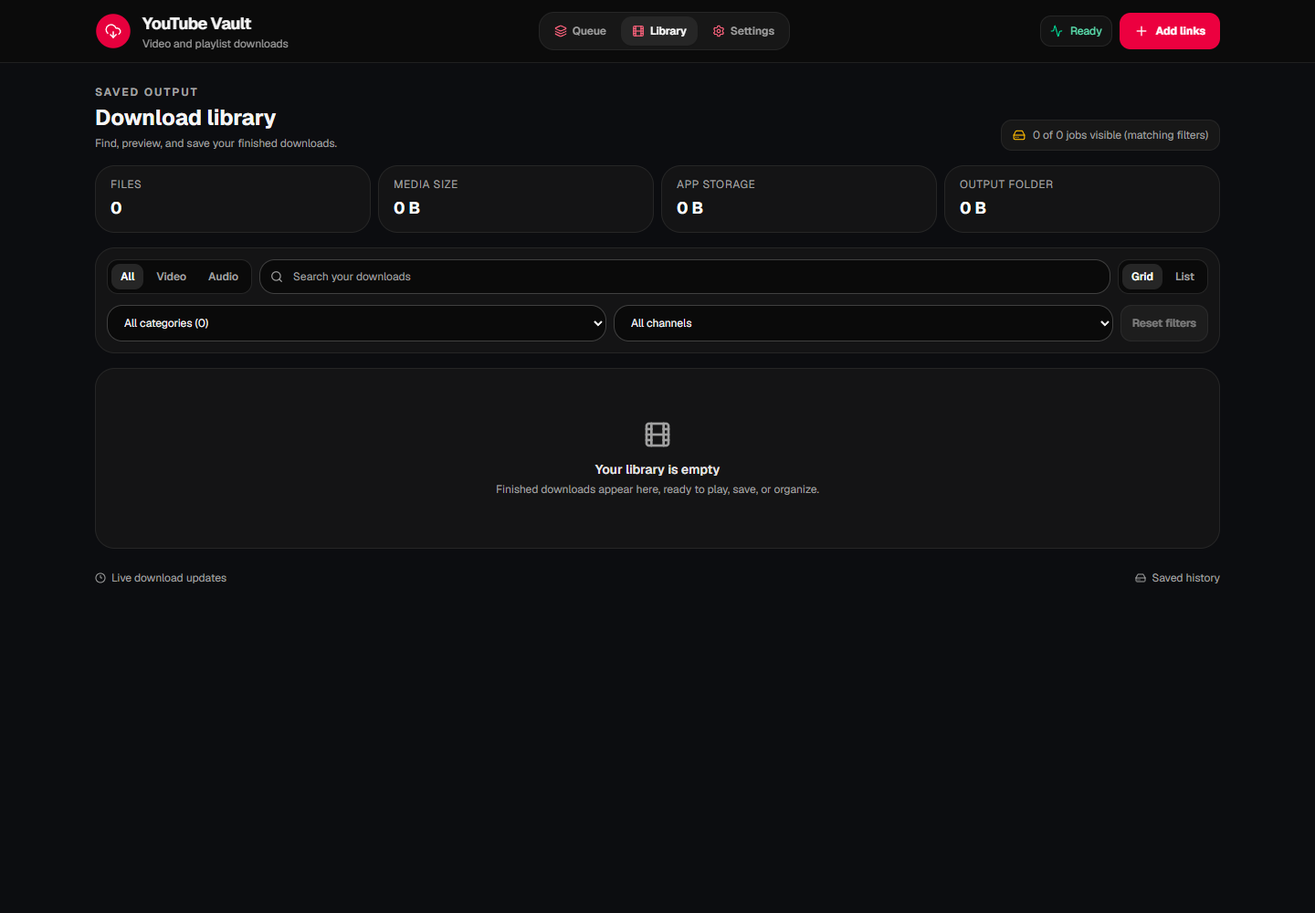
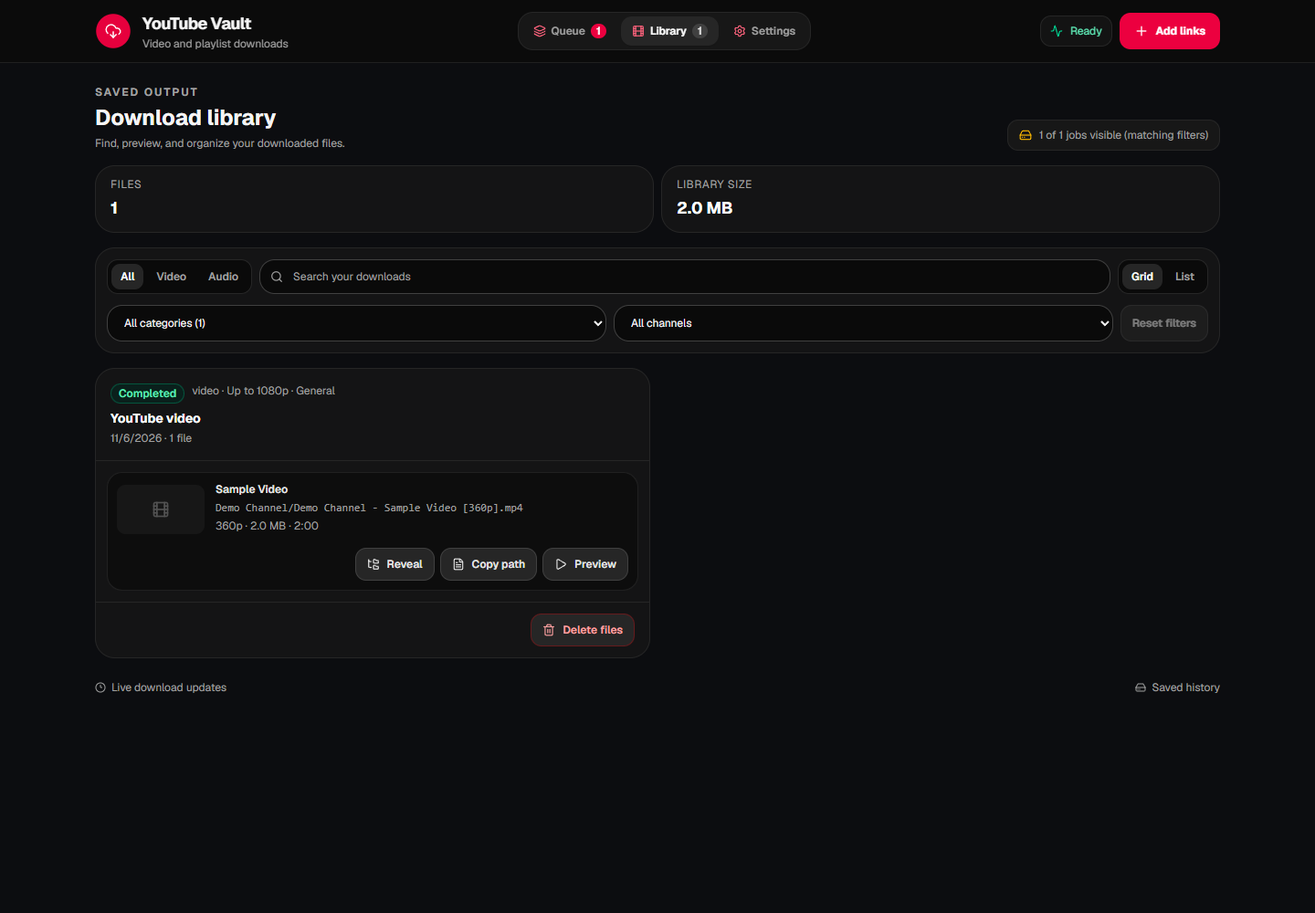
docs: update single-folder Library guides and native screenshots

diff --git a/src/server/README.md b/src/server/README.md
@@ -54,6 +54,13 @@ Browser playback requests use YouTube's representation quality names, including 
 
 Transient browser capture failures receive one retry using a fresh tab, including failures after media has started arriving. If autoplay switches to another video before capture finishes, the service restores the requested video at the verified saved prefix, retaining the selected quality. Restoration never runs during an ad and allows at most three attempts without prefix progress, with 15 seconds between attempts. Each attempt and the overall item remain deadline-bounded. If adaptive acquisition still fails, the optional 360p progressive MP4 recovery is used only when explicitly enabled for that job, and its use is disclosed in the job note. Some videos cannot expose an eligible compatible track; their item fails explicitly.
 
+Browser pair capture shares the bounded reservation headroom with audio as well
+as video. If browser capture exceeds that reservation, partial capture output is
+discarded and verified native ranges can retry the same selected tracks. This
+does not increase the configured job limit or implicitly lower the quality.
+A reservation error is distinct from the aggregate job-limit error; diagnostic
+logs identify browser-pair, browser-track, and mux-output failures.
+
 ## Live resolution regression test
 
 The opt-in live matrix downloads each supplied authorized video at every supported quality ceiling (`480`, `720`, `1080`, `1440`, `2160`, and `best`). Choose samples with different durations; additional comma-separated sample URLs are supported. Each ceiling selects the best eligible source at or below that height; a source with a lower maximum resolution is still tested. A download that falls back below its selected source resolution fails the test.
@@ -65,7 +72,7 @@ $env:YTDL_LIVE_MATRIX_URLS = 'https://www.youtube.com/watch?v=HOfdboHvshg,https:
 go test -run '^TestLiveResolutionMatrix$' -count=1 -v -timeout 6h
 ~~~
 
-These Blender samples cover a 52-second trailer, approximately 10-minute film, and approximately 15-minute film. The test uses temporary managed storage, deletes each successful download after validation, and leaves the user's output directory untouched. It checks finalized sizes, reads actual container dimensions, requires audio and video tracks, and reads both tracks through their expected duration (with three seconds of endpoint tolerance). It does not decode every frame. Chrome-compatible browser installation and unrestricted YouTube access are required; upstream availability and delivery restrictions can fail a run independently of local regressions.
+These Blender samples cover a 52-second trailer, approximately 10-minute film, and approximately 15-minute film. The test uses temporary isolated storage, deletes each successful download after validation, and leaves the user's output directory untouched. It checks finalized sizes, reads actual container dimensions, requires audio and video tracks, and reads both tracks through their expected duration (with three seconds of endpoint tolerance). It does not decode every frame. Chrome-compatible browser installation and unrestricted YouTube access are required; upstream availability and delivery restrictions can fail a run independently of local regressions.
 
 The matrix logs elapsed job time, finalized bytes, and output MiB/s for each sample and ceiling. Job time includes metadata, acquisition, muxing, and finalization; container validation runs afterward. Set `YTDL_TRACE_PERFORMANCE=1` for browser capture phase timings. Compare identical samples and strategies before and after a change; upstream delivery and browser startup can vary between runs. Sample subtests run concurrently, so their rates also reflect shared network/CPU use. Use one URL at a time to isolate single-job performance.
 
@@ -103,6 +110,30 @@ The MP3 encoder emits constant-bitrate audio with native ID3v2.3 metadata writte
 
 Ticket links last five minutes. Individual-file transfers support one byte range; ZIP downloads stream finalized files without building a duplicate archive in memory. Completed Library records remain by default. With an explicit `RETENTION` duration, a record and its private managed files can expire only when all finalized media and caption sidecars still have verified published copies; active transfers and unexpired tickets also hold the record. Failed or cancelled jobs without finalized files are cleaned after 24 hours by default (or after the explicit duration).
 
+## Library storage and upgrades
+
+`downloadLocation` is the Library's single finalized-media location. New jobs
+stage transfers, muxing, and artwork under `<downloadLocation>/.yt-dl-go/<jobID>`
+and finalize media into the selected naming/subfolder layout. `DATA_DIR` retains
+SQLite preferences, history, and resumable state; it is not a second media Library.
+Each job records its download folder, so later setting changes do not move
+existing files or redirect their playback/deletion paths.
+
+Before accepting requests, startup reconciles tracked Library items with disk.
+A missing media file removes its Library item and records an exclusion so later
+history saves cannot restore it. Surviving playlist files remain. A missing
+caption clears that sidecar; imported metadata-only records remain. An
+unavailable Library root, permission error, changed-size file, or invalid path
+preserves metadata rather than being treated as a deletion. Playback separately
+validates the tracked regular file and expected size.
+
+On upgrade, a valid folder copy takes precedence over an old private duplicate.
+Legacy app-only media is copied into its recorded download folder; obsolete
+private media is removed only after the new paths have been saved. Failed saves
+roll back new migration outputs. Missing/invalid optional captions do not block
+startup. Back up both `DATA_DIR` and the download folder with the app closed
+before upgrading or rolling back.
+
 ## API
 
 Control-plane API responses and errors return JSON. `GET /api/downloads/{ticket}` instead streams a file or ZIP. When `API_TOKEN` is configured, send `Authorization: Bearer TOKEN` except for `GET /api/health`, approved CORS preflight requests, and ticket download links. API JSON bodies must be one object no larger than 4096 bytes and cannot include unknown fields. The browser/server UI has no token-entry flow; if `API_TOKEN` is configured, use a token-capable external client. Desktop instead receives a private per-launch bearer through its Wails binding.
@@ -117,7 +148,7 @@ Control-plane API responses and errors return JSON. `GET /api/downloads/{ticket}
 | `PUT /api/settings` | Saves validated preferences to SQLite |
 | `POST /api/folders/select` | Opens the local OS folder picker and returns the selected absolute folder; `{}` body |
 | `POST /api/jobs` | Creates a download job; returns `202` and the job |
-| `POST /api/jobs/bulk` | Applies pause/resume/cancel/delete to 1–100 unique `jobIds`; returns `jobs`, `deletedIds`, and per-ID `failures`. Successful IDs are committed independently; published output is preserved on delete. |
+| `POST /api/jobs/bulk` | Applies pause/resume/cancel/delete to 1–100 unique `jobIds`; returns `jobs`, `deletedIds`, and per-ID `failures`. Successful IDs are committed independently; Library media is preserved on delete. |
 | `POST /api/jobs/{id}/retry-failed` | Re-queues eligible failed/cancelled playlist items together while preserving successful files |
 | `PUT /api/jobs/{id}/configuration` | Edits quality, video strategy, audio format/bitrate, and category for queued or paused jobs; finalized media is preserved |
 | `GET /api/jobs` | Lists jobs, newest first |
@@ -135,13 +166,11 @@ Control-plane API responses and errors return JSON. `GET /api/downloads/{ticket}
 | `PUT /api/queue/order` | Reorders all currently queued jobs atomically using `{"jobIds":[...]}` |
 | `POST /api/jobs/{id}/next` | Moves one queued job to the front of the queued-job order |
 | `PUT /api/jobs/{id}/items` | Reorders a queued playlist using original `playlistIndexes` |
-| `DELETE /api/jobs/{id}` | Removes a stopped job from the Library and deletes app-managed copies while preserving published output |
-| `DELETE /api/jobs/{id}/history` | Removes a stopped job from Queue history while preserving its Library items and both media copies |
-| `DELETE /api/jobs/{id}/library-items/{fileId}` | Removes exactly one finalized file from the Library and its app-managed copies while preserving job history, siblings, and published output |
-| `DELETE /api/jobs/{id}/managed` | Deletes only app-managed media copies and keeps Library history plus published output |
-| `DELETE /api/jobs/{id}/published` | Deletes only tracked copies in the configured output directory and keeps managed Library media |
-| `DELETE /api/jobs/{id}/all` | Explicitly deletes managed media, published output, and Library history |
-| `POST /api/jobs/{id}/filesystem` | Performs a path-validated `copy-path`, `reveal`, or `open-folder` action for one tracked published file |
+| `DELETE /api/jobs/{id}` | Removes a stopped job and its Library metadata/working files while preserving media in the download folder |
+| `DELETE /api/jobs/{id}/history` | Removes stopped Queue history while preserving Library items and disk files |
+| `DELETE /api/jobs/{id}/library-items/{fileId}` | Removes one Library item and its working files/artwork; preserves job history, sibling items, and media in the download folder |
+| `DELETE /api/jobs/{id}/all` | Deletes tracked Library media, caption sidecars, working files, and history; backs the Library Delete files action |
+| `POST /api/jobs/{id}/filesystem` | Performs a path-validated `copy-path`, `reveal`, or `open-folder` action for one tracked Library file |
 | `POST /api/jobs/{id}/ticket` | Creates a five-minute link for a job ZIP or one file |
 | `GET /api/jobs/{id}/thumbnail?fileId=FILE_ID` | Serves captured local thumbnail artwork for one finalized file through authenticated API access |
 | `GET /api/downloads/{ticket}` | Streams the ticket's archive or file |
@@ -166,15 +195,17 @@ To request a caption sidecar, include a language code returned by inspection, fo
 
 Valid qualities are `best`, `2160`, `1440`, `1080`, `720`, and `480`. `mediaType` is optional and defaults to `video`; set it to `audio` for audio-only output. For audio jobs, `audioFormat` defaults to `mp3` and accepts `mp3` or `m4a`. MP3 `audioBitrate` defaults to `192k`; accepted values are `128k`, `192k`, `256k`, and `320k`. M4A output uses the source AAC bitrate without transcoding. `category` is optional; when supplied it must match an active configured user category and is captured with the job for output naming and category-based folder routing. The URL must be an HTTPS YouTube or `youtu.be` video, shorts, live, or playlist URL with valid IDs. A watch URL containing `list=` is treated as a playlist. Playlist inspection returns the full exposed `entries` array with one-based original indexes. A playlist job may omit `items` to process every exposed entry, or provide a selected subset where each item includes its original `index` and 11-character video `id`. The worker re-fetches playlist metadata and rejects stale or mismatched selections before downloading. Selected items default to original playlist order. Before a job starts, users may explicitly reorder queued playlist items; queue indexes are reassigned contiguously for progress/resume while managed filenames and MP3 track numbers still retain each item's original playlist index. Inaccessible or hidden entries cannot be independently counted and are disclosed in the job note.
 
-Inspect a link with `POST /api/inspect` and `{"url":"https://www.youtube.com/watch?v=VIDEO_ID"}`. Video inspection returns title, channel, duration, safe thumbnail URL, publish date, supported quality ceilings, whether a standalone audio stream is available, and validated caption-track metadata. Playlist inspection returns its exposed item count and up to ten preview entries, and samples up to five accessible entries until it finds caption tracks for the selection UI; it does not expose signed media or caption URLs. Preferences support `defaultQuality` (`best`, `2160`, `1440`, `1080`, `720`, or `480`), `defaultVideoStrategy` (`best`, `compatibility`, `vp9`, or `av1`), `maxConcurrentDownloads` (1–6), `bandwidthLimitBytesPerSec` (`0` for unlimited, otherwise up to 1 GiB/s), an absolute `downloadLocation`, a `namingPattern` with `{channel}`, `{title}`, `{resolution}`, `{category}`, `{id}`, `{upload_date}`, `{playlist}`, `{index}`, `{ext}`, `{fps}`, and `{codec}` tokens, `subfolderSorting` (`channel`, `category`, or `flat`), a `defaultCategory`, up to 50 `userCategories`, and `storageMode` (`managed-published`, `published-only`, or `managed-only`). Published output file and folder modes are stored as four-digit octal strings (`0600` and `0700` by default); these POSIX permission bits are applied on Linux/macOS and do not control Windows ACLs. Settings are stored in SQLite. Each job captures its selected `videoStrategy` plus output and storage preferences when queued, and whole-job retries preserve that strategy. `managed-published` keeps both copies, `published-only` removes the private finalized media after a successful publish, and `managed-only` skips publishing to the configured output folder. Published output is treated as user-owned media: normal Library removal and retention pruning preserve it. Explicit scoped delete endpoints are required to remove published files. Finalized jobs also make a best-effort capture of validated YouTube thumbnail artwork (JPEG, PNG, or WebP, maximum 5 MiB) through the guarded HTTPS client. Artwork capture failure does not fail the media job, and the original approved remote thumbnail URL remains fallback metadata.
+Inspect a link with `POST /api/inspect` and `{"url":"https://www.youtube.com/watch?v=VIDEO_ID"}`. Video inspection returns title, channel, duration, safe thumbnail URL, publish date, supported quality ceilings, whether a standalone audio stream is available, and validated caption-track metadata. Playlist inspection returns its exposed item count and up to ten preview entries, and samples up to five accessible entries until it finds caption tracks for the selection UI; it does not expose signed media or caption URLs. Preferences support `defaultQuality` (`best`, `2160`, `1440`, `1080`, `720`, or `480`), `defaultVideoStrategy` (`best`, `compatibility`, `vp9`, or `av1`), `maxConcurrentDownloads` (1–6), `bandwidthLimitBytesPerSec` (`0` for unlimited, otherwise up to 1 GiB/s), an absolute `downloadLocation`, a `namingPattern` with `{channel}`, `{title}`, `{resolution}`, `{category}`, `{id}`, `{upload_date}`, `{playlist}`, `{index}`, `{ext}`, `{fps}`, and `{codec}` tokens, `subfolderSorting` (`channel`, `category`, or `flat`), a `defaultCategory`, and up to 50 `userCategories`. Output file and folder modes are stored as four-digit octal strings (`0600` and `0700` by default); these POSIX permission bits are applied on Linux/macOS and do not control Windows ACLs. Settings are stored in SQLite. Each job captures its selected `videoStrategy` plus output preferences when queued, and whole-job retries preserve that strategy. Storage policies and the `storageMode` settings/response field have been removed; old database columns remain for upgrade compatibility. Retention preserves the sole Library media copy. Explicit `DELETE /api/jobs/{id}/all` is required to delete it. Finalized jobs also make a best-effort capture of validated YouTube thumbnail artwork (JPEG, PNG, or WebP, maximum 5 MiB) through the guarded HTTPS client. Artwork capture failure does not fail the media job, and the original approved remote thumbnail URL remains fallback metadata.
 
-Pause and resume use `POST` with `{}`. A paused active job keeps finalized files; an interrupted progressive item may restart on resume, while supported adaptive byte ranges can resume. Retry requires `{"rightsConfirmed":true}` and creates a new job so the original result and error history remain inspectable. For stopped playlist jobs, `POST /api/jobs/{id}/retry-item` accepts `{"index":N}` only for a failed or cancelled queue row. It reuses the same job, preserves valid finalized siblings and their file IDs, persists the retry marker in `queue_items`, retries only the targeted row, and can survive a restart without expanding into a full-playlist retry. `DELETE /api/jobs/{id}/history` removes only the stopped Queue record and job-scoped history; it preserves Library files, source metadata, published output, and unexpired file tickets. Library items continue to support save, preview, thumbnail, filesystem, and scoped copy actions after history removal. Retry and other queue-history actions are unavailable once that history is removed. `DELETE /api/jobs/{id}/library-items/{fileId}` removes one Library file and its validated private media, caption, and local thumbnail copies; it leaves job history, grouped siblings, and published output intact. An exclusion record prevents a later job save from restoring that file to the Library. `DELETE /api/jobs/{id}` is allowed only after the worker stops and no file transfer is active; it removes Library history and private app-managed media but preserves published output. `DELETE /managed` removes only the managed copies, `DELETE /published` removes only validated tracked output copies, and `DELETE /all` explicitly removes both copy sets plus history.
+Pause and resume use `POST` with `{}`. A paused active job keeps finalized files; an interrupted progressive item may restart on resume, while supported adaptive byte ranges can resume. Retry requires `{"rightsConfirmed":true}` and creates a new job so the original result and error history remain inspectable. For stopped playlist jobs, `POST /api/jobs/{id}/retry-item` accepts `{"index":N}` only for a failed or cancelled queue row. It reuses the same job, preserves valid finalized siblings and their file IDs, persists the retry marker in `queue_items`, retries only the targeted row, and can survive a restart without expanding into a full-playlist retry. `DELETE /api/jobs/{id}/history` removes only Queue history; Library metadata, disk files, and unexpired tickets remain usable. Retry and other queue-history actions are unavailable after history removal.
 
-A job includes `id`, `url`, `kind`, `quality`, `mediaType` (`video` or `audio`), `audioFormat`, `audioBitrate`, optional `subtitleLanguage`/`subtitleFormat`, `category`, `storageMode`, `status`, `title`, `progress`, byte counts, transfer speed, ETA, `currentItem`, `activeItemCount`, playlist counts, `files`, `error`, `createdAt`, `note`, and `failures`. For parallel transfers, progress and byte counts aggregate the active items; `currentItem` shows an active title and how many more are running. Audio jobs produce tagged `.mp3` files or original-AAC `.m4a` files according to `audioFormat`. File objects include `id`, `name`, `size`, `height`, and `mimeType`, plus available title, author, duration, remote thumbnail fallback, publish-date metadata, `managedAvailable`, and `publishedAvailable` so clients can distinguish the two copy locations. When requested, `subtitle` describes the finalized sidecar (language, label, format, size, managed/published availability and relative output path); `subtitleError` reports a nonfatal caption-specific failure. When durable artwork was captured, `thumbnailLocalAvailable` and `thumbnailMimeType` describe the private local copy; clients should fetch it through the authenticated thumbnail endpoint rather than using a filesystem path. Per-item `failures` use one-based indexes.
+`DELETE /api/jobs/{id}/library-items/{fileId}` removes one Library item and its job-owned working files/artwork while preserving disk media, history, and siblings. An exclusion prevents later history saves from recreating that item. `DELETE /api/jobs/{id}` removes a stopped job and Library metadata but keeps disk media. Both metadata-removal APIs remain available to API clients; the Library screen exposes only the destructive `DELETE /api/jobs/{id}/all` action. The former `/managed` and `/published` deletion endpoints are removed. Destructive operations reject active transfers.
+
+A job includes `id`, `url`, `kind`, `quality`, `mediaType` (`video` or `audio`), `audioFormat`, `audioBitrate`, optional `subtitleLanguage`/`subtitleFormat`, `category`, `status`, `title`, `progress`, byte counts, transfer speed, ETA, `currentItem`, `activeItemCount`, playlist counts, `files`, `error`, `createdAt`, `note`, and `failures`. For parallel transfers, progress and byte counts aggregate the active items; `currentItem` shows an active title and how many more are running. Audio jobs produce tagged `.mp3` files or original-AAC `.m4a` files according to `audioFormat`. File objects include `id`, `name`, `size`, `height`, and `mimeType`, plus available title, author, duration, remote thumbnail fallback, publish-date metadata, `managedAvailable`, and `publishedAvailable`. The availability names remain for compatibility: new finalized files have `managedAvailable: false`, while `publishedAvailable` records availability of the sole download-folder file. When requested, `subtitle` describes the finalized sidecar (language, label, format, size, recorded availability and relative output path); `subtitleError` reports a nonfatal caption-specific failure. When durable artwork was captured, `thumbnailLocalAvailable` and `thumbnailMimeType` describe the local artwork cache; clients should fetch it through the authenticated thumbnail endpoint rather than using a filesystem path. Per-item `failures` use one-based indexes.
 
 Create a ticket with `{}` for a ZIP or `{"fileId":"FILE_ID"}` for a single finalized file. Add `"inline":true` only with a `fileId` to create a 30-minute preview ticket; ordinary download tickets expire after five minutes. The response is `{"path":"/api/downloads/TICKET"}`. Open that path relative to the service origin without adding the bearer token to the URL. Single-file tickets support one HTTP byte range; inline tickets use `Content-Disposition: inline` so browser media controls can seek without loading the whole file into JavaScript memory.
 
-For local filesystem actions, post `{"fileId":"FILE_ID","action":"reveal"}` (or `open-folder` / `copy-path`) to `/api/jobs/{id}/filesystem`. The server resolves the path exclusively from persisted file metadata, re-validates that it remains beneath the job’s configured output location, verifies the file still exists with the expected size, and never accepts an arbitrary client-supplied path. `POST /api/folders/select` invokes the native interactive folder chooser on Windows and macOS; Linux uses `zenity` when installed. A cancelled picker returns `204`. Reveal/open uses Explorer on Windows, `open`/`open -R` on macOS, and `xdg-open` on Linux; Linux Reveal uses the freedesktop FileManager1 ShowItems method to select the file, falling back to xdg-open on its containing folder if the service is unavailable.
+For local filesystem actions, post `{"fileId":"FILE_ID","action":"reveal"}` (or `open-folder` / `copy-path`) to `/api/jobs/{id}/filesystem`. The server resolves the path exclusively from persisted file metadata, re-validates that it remains beneath the job’s configured output location, verifies the file still exists with the expected size, and never accepts an arbitrary client-supplied path. `POST /api/folders/select` invokes the native interactive folder chooser on Windows and macOS; Linux uses `zenity` when installed. A cancelled picker returns `204`. Reveal uses Explorer file selection on Windows and `open -R` on macOS. Linux Reveal uses the freedesktop FileManager1 ShowItems method to select the file, falling back to xdg-open on its containing folder if the service is unavailable.
 
 ## Version and update API
 

diff --git a/src/README.md b/src/README.md
@@ -7,7 +7,7 @@ preferences, media streaming, and events.
 
 In desktop mode a Wails binding supplies a private ephemeral API origin and
 per-launch bearer. The UI authenticates its requests and uses Wails bindings for
-native saves and folder dialogs. In browser/server mode it uses the page origin;
+native saves, folder pickers, and confirmation dialogs. In browser/server mode it uses the page origin;
 Vite development uses the configured loopback API below. See the
 [desktop guide](../docs/DESKTOP.md) for native build/runtime details.
 
@@ -26,7 +26,7 @@ The `dev` build tag adds `localhost:5173` and `127.0.0.1:5173` to the default CO
 
 ## Checks and production UI build
 
-Settings opens with download location, folder organization, notifications, and a summary of the saved video defaults. The Advanced settings toggle reveals format and quality overrides, transfer limits, storage policy, filename templates, permissions, runtime settings, and diagnostics. Collapsing it preserves edits; Save preferences also saves collapsed fields. Use automatic video defaults restores best quality, automatic stream selection for each video, and disabled 360p recovery without changing other preferences.
+Settings opens with download location, folder organization, notifications, and a summary of the saved video defaults. The Advanced settings toggle reveals format and quality overrides, transfer limits, filename templates, permissions, runtime settings, and diagnostics. Collapsing it preserves edits; Save preferences also saves collapsed fields. Use automatic video defaults restores best quality, automatic stream selection for each video, and disabled 360p recovery without changing other preferences.
 
 ~~~
 npm run typecheck
@@ -74,18 +74,35 @@ HTTP. It calls:
 
 The quality choices are maximum heights. A completed file reports its actual `height` and `mimeType`; the job `note` discloses adaptive-HD or progressive-fallback behavior. The full request and response contract is in [server/README.md](server/README.md).
 
+## Library and confirmation behavior
+
+The download folder is the sole media location. Library playback uses scoped
+HTTP tickets to read the tracked folder file; it does not require a second app
+copy. Library cards expose Reveal, Copy path, Preview, and one Delete files
+operation for the job's files. Queue history removal preserves Library files.
+Settings no longer exposes a storage policy.
+
+All action confirmations go through `confirmAction` in `lib/desktop.ts`. It
+awaits the native `DesktopApp.Confirm` binding when present and uses
+`window.confirm` only in browser mode. The job hook prevents overlapping prompts;
+a declined prompt or native-dialog error must never submit the mutation. Keep
+confirmation messages, destructive scope, and backend endpoints consistent.
+Rebuild the desktop executable when adding or changing a Go binding; refreshing
+the WebView updates only the frontend.
+
 ## Source map
 
 | Location | Responsibility |
 | --- | --- |
 | `pages/home.tsx` | Top-level orchestration, derived queue/library state, inspection submission, navigation, and page composition |
 | `pages/queue.tsx` | Add/inspect workflow, batch controls, queue filters, queue cards, and drag/drop presentation |
-| `pages/library.tsx` | Library filtering/layout, file cards, preview/save/filesystem controls, and scoped-delete presentation |
+| `pages/library.tsx` | Library filtering/layout, file cards, preview/Reveal/Copy path controls, and file-deletion presentation |
 | `pages/settings.tsx` | Preferences, download location, advanced settings, and application diagnostics |
 | `hooks/use-service.ts` | Backend bootstrap, SQLite hydration, SSE updates, reconciliation, readiness/errors, and terminal notifications |
 | `hooks/use-jobs.ts` | Job mutations, retries, tickets, filesystem actions, queue/playlist ordering, batch actions, and cleared-queue persistence |
 | `hooks/use-settings.ts` | Settings save/mutation behavior, folder selection, notification permission, and category management |
 | `components/downloader/view-model.tsx` | Downloader view types, labels, formatting/selection helpers, thumbnail loading, and sortable queue-row UI |
+| `lib/desktop.ts` | Wails bootstrap, native saves, and asynchronous confirmations with a browser fallback |
 | `lib/downloader.ts` | YouTube URL parsing, API types/client, service-event streaming, and formatting helpers |
 | `downloader.test.mjs`, `ui.test.mjs` | Bun tests for URL/API helpers and the React page/API integration |
 | `index.css` | Theme and Tailwind styles |

diff --git a/README.md b/README.md
@@ -7,7 +7,7 @@
 A local desktop app for Windows, macOS, and Linux. Save permitted YouTube videos
 and playlists, manage a persistent queue, and organize your media in a searchable
 Library. The Wails desktop edition opens in its own native window and uses native
-save and folder dialogs.
+save, folder, and confirmation dialogs.
 
 Download only content you own or have permission to save, in accordance with
 YouTube's terms. DRM, private-account credentials, cookie imports, paywall bypasses,
@@ -16,12 +16,12 @@ and live-stream recording are unsupported.
 ## Screenshots
 
 Actual Windows Wails interface, captured from its embedded WebView2 using
-Playwright with a separate, empty demonstration library. The native window frame
-is outside the captured content.
+Playwright with a separate demonstration Library containing synthetic fixture
+data. The native window frame is outside the captured content.
 
 ![YouTube Vault download queue in the Windows Wails WebView](docs/assets/screenshots/wails-windows-queue.png)
 
-![YouTube Vault Library in the native Windows app](docs/assets/screenshots/wails-windows-library.png)
+![YouTube Vault Library in the Windows Wails WebView](docs/assets/screenshots/wails-windows-library.png)
 
 ## Get the app
 
@@ -64,8 +64,13 @@ release work.
 2. Choose video or audio, a maximum quality, and any available captions.
 3. Confirm your rights and add it to the queue. Pause, resume, reorder, or retry
    items as needed.
-4. Open **Library** to search, preview, save files, or export a ZIP. Use **Settings**
-   to choose the download folder, storage policy, and defaults.
+4. Open **Library** to search, preview, reveal, copy paths, or delete downloaded
+   files. Use **Settings** to choose the Library folder, naming rules, and defaults.
+
+**Delete files** removes the files from disk and their Library record after
+confirmation. **Forget history** in the Queue keeps Library files and entries.
+Desktop confirmations use native Yes/No dialogs, with No selected by default.
+Use **File → Exit** to close the desktop app and **Help → About** for build details.
 
 Quality choices are ceilings, not upscaling requests or guarantees. **Compatibility
 MP4** selects H.264/AAC; **Best quality**, **Prefer VP9**, and **Prefer AV1** may
@@ -88,8 +93,9 @@ persist for the next launch. No login item, background service, or tray process 
 Your download folder is your library. Downloads default to
 `~/Downloads/YouTube_Vault`, organized by channel; change this in Settings.
 The app keeps one media file and plays/previews it directly from that folder.
-At startup, missing files are removed from the Library. Existing app-only media
-is moved into its recorded download folder when upgrading.
+At startup, missing files are removed from the Library. An unavailable Library
+folder (for example, a disconnected drive) preserves its entries. Existing
+app-only media is moved into its recorded download folder when upgrading.
 
 Saved preferences and history live separately from the executable:
 
@@ -99,9 +105,10 @@ Saved preferences and history live separately from the executable:
 | macOS | `~/Library/Application Support/yt-dl-go` |
 | Linux | `$XDG_DATA_HOME/yt-dl-go`, or `~/.local/share/yt-dl-go` |
 
-Set `DATA_DIR` before launch to choose another private location. Back up the whole
-directory with the app closed before migration or rollback. Installers retain saved
-data and downloads when removed. Both editions share this data; run one edition at a time.
+Set `DATA_DIR` before launch to choose another private location. Back up both
+this data directory and your Library folder with the app closed before migration
+or rollback. Installers retain saved data and downloads when removed. Both
+editions share this data; run one edition at a time.
 Never store application data under the repository's generated `dist` directory.
 
 For startup problems, set `DESKTOP_LOG_FILE` to a writable path before launching.

diff --git a/docs/RELEASE_CHECKLIST.md b/docs/RELEASE_CHECKLIST.md
@@ -25,6 +25,18 @@ that every architecture or later changed build has been manually exercised.
 Documentation-only changes preserve this build evidence. Re-run relevant checks
 when application, dependency, build, signing, or packaging behavior changes.
 
+## Single-folder Library branch verification
+
+Recorded 2026-11-06 for the `single-folder-library` branch:
+
+- The maintainer confirmed the download and native-dialog tests passed.
+- Fresh Queue and Library screenshots were captured from the actual Windows
+  Wails WebView2 with Playwright and isolated synthetic data; the OS frame is
+  omitted. The capture fixture used a separate instance lock and local debugging
+  configuration through temporary build files; production source was unchanged.
+- Automated backend, UI/bridge, browser E2E, and static-check results are recorded
+  in the PR. Manual macOS/Linux acceptance remains pending.
+
 ## 1. Select and validate the source
 
 - [ ] Select the intended source commit, review changes, and confirm current CI/CodeQL.
@@ -68,9 +80,22 @@ cover each OS family and the architectures intended for publication.
 - [ ] Install and open through the normal OS entry point; also test the portable package.
 - [ ] Inspect a permitted video/playlist; exercise queue events, pause/resume, and retry.
 - [ ] Complete a permitted download and verify actual quality and file playback.
-- [ ] Verify Library previews/seeking, native save/cancel, ZIP export, and folder selection.
+- [ ] Verify Library previews/seeking, Reveal/file selection, Copy path, and the
+      single Delete files confirmation; verify the files are deleted only after approval.
+- [ ] Verify native confirmations for history removal, retries, and bulk operations;
+      decline each operation and verify that nothing is changed.
+- [ ] Verify File → Exit and Help → About. Test Queue save/cancel, Settings Library
+      export, and the native folder picker.
+- [ ] Upgrade a disposable legacy Library from each old storage mode. Verify one
+      final media copy, working playback/captions, and recovery from a missing caption.
+- [ ] Delete one file outside the app, restart, and verify only that Library entry
+      disappears. Disconnect/reconnect the Library folder and verify entries survive.
+- [ ] Retry a permitted large adaptive download that previously exceeded its item
+      reservation; verify actual quality and the configured job limit.
+- [ ] Refresh the native documentation screenshots using disposable data; include
+      the updated Library controls and a native confirmation in the PR evidence.
 - [ ] Close/restart and verify queue, Library, preferences, and output locations.
-- [ ] Verify installer reinstallation/removal retains saved data and published files.
+- [ ] Verify installer reinstallation/removal retains saved data and Library files.
 - [ ] Record dependencies, permissions prompts, quarantine, and signing warnings.
 
 ## 4. Signing and publication

diff --git a/docs/DESKTOP.md b/docs/DESKTOP.md
@@ -191,7 +191,16 @@ SSE and ranged previews use real authenticated HTTP rather than Wails' buffering
 asset handler. File/ZIP saves and Library exports use native save dialogs and
 stream to a temporary file beside the selected destination; a failed transfer
 does not overwrite an existing file. Tokens are not stored in local storage or
-URLs. Folder selection uses the Wails native picker.
+URLs. Folder selection uses the Wails native picker. Confirmation prompts use
+`DesktopApp.Confirm` and native Yes/No dialogs titled YouTube Vault, with No
+selected by default. Declining or a dialog error prevents the operation. The
+browser/server edition retains browser confirmations.
+
+File → Exit follows the normal shutdown path; Help → About displays version,
+commit, and build date. macOS also retains its application and Edit menus.
+Library playback reads the user-selected download folder directly. Library
+cards provide Reveal, Copy path, Preview, and a single Delete files action;
+Queue saves and Settings Library exports remain available.
 
 For development, rebuild with `npm run build:desktop`. This deliberately uses
 static production assets rather than Wails' dynamic Vite integration. Existing
@@ -207,5 +216,6 @@ to a writable file before launching. This records native startup logs; it does
 not log the per-launch bearer. The file is truncated on each launch.
 
 For each candidate, record manual acceptance of the native window, queue events, a permitted media download,
-preview seeking, save/cancel, ZIP export, folder picker and close/restart on each
-OS family. Build and HTTP transport checks do not replace native UI acceptance.
+preview seeking, native confirmation approval/decline, Queue save/cancel,
+Settings Library export, Reveal/file selection, folder picker, About, and
+File → Exit/close/restart on each OS family. Build and HTTP transport checks do not replace native UI acceptance.

diff --git a/CHANGELOG.md b/CHANGELOG.md
@@ -4,6 +4,25 @@ This file summarizes notable user-facing changes. Version **v0.1.0** was publicl
 
 ## [Unreleased]
 
+### Added
+
+- Native File → Exit and Help → About menus, with version and build details.
+- Native desktop confirmation dialogs titled YouTube Vault, with No selected by default; browser builds retain browser confirmations.
+
+### Changed
+
+- The selected download folder is the Library's single media location. Playback and previews read directly from disk; storage-policy settings and automatic duplicate media copies are removed.
+- Library cards now offer Reveal, Copy path, Preview, and one Delete files action. Redundant Folder, Save/ZIP, and Remove controls are removed.
+- The generic format explanation is no longer displayed on queued or active downloads, including saved jobs from older versions.
+
+### Fixed
+
+- Startup reconciles deleted media without restoring it from obsolete copies; unavailable Library folders preserve their metadata.
+- Legacy app-only files migrate into their recorded download folder. Missing captions do not block startup, and a failed migration save rolls back newly created outputs.
+- Restarted jobs reuse finalized Library files instead of downloading them again.
+- Windows Reveal passes the selection switch and file path separately. Linux tries file selection through FileManager1 and falls back to the containing folder when unavailable.
+- Browser audio capture receives a share of the reserved headroom. Browser reservation overruns fall back to verified native ranges without relaxing the job limit or changing the selected quality.
+
 ## [0.2.0] — 2026-11-05
 
 ### Added
